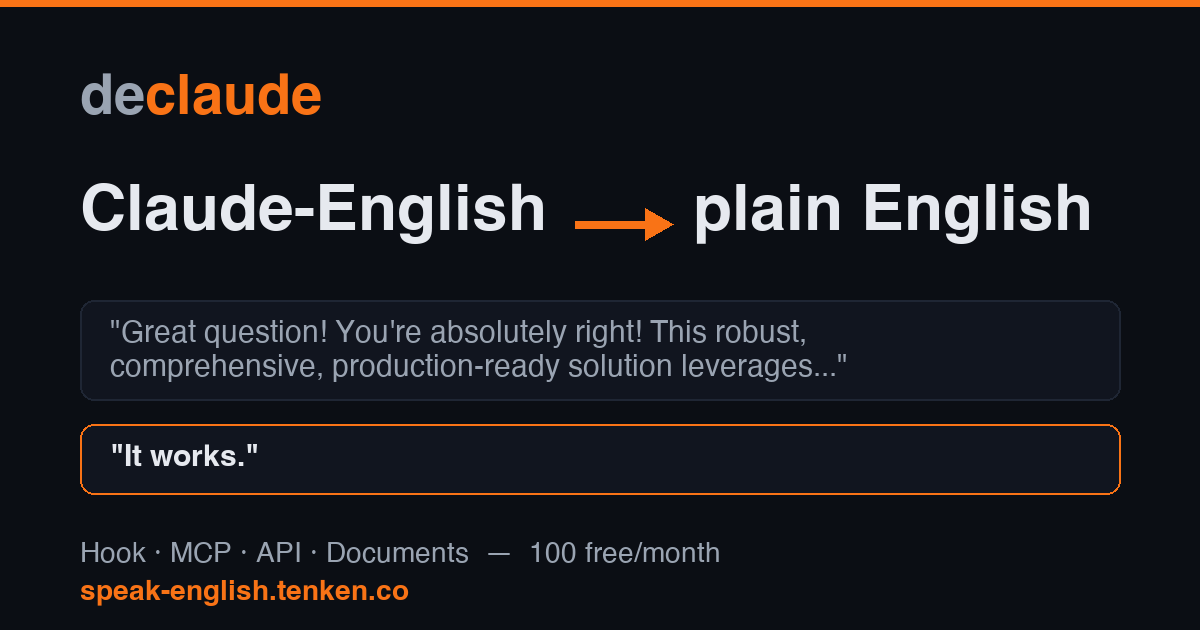
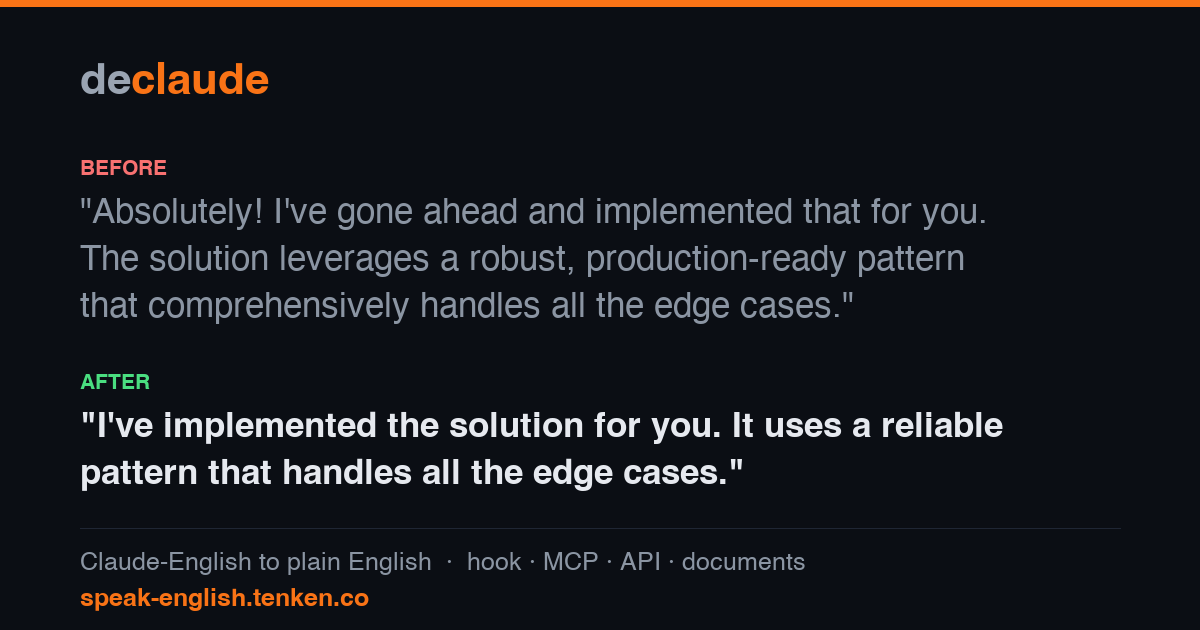
docs: declutter README behind the skill; own before/after examples on the card and demo

Changed region(s): [[0.0617, 0.2413, 0.925, 0.7841], [0.0617, 0.8444, 0.6783, 0.9651], [0.0617, 0.0905, 0.2775, 0.181]]

diff --git a/gateway/src/declaude/landing.py b/gateway/src/declaude/landing.py
@@ -105,9 +105,9 @@ footer a{color:var(--muted)}
 
   <div class="demo" id="try">
     <div class="before"><p class="label">Before</p>
-      <textarea id="demo-in" rows="3" maxlength="1200" placeholder="Certainly! I'd be delighted to delve into this fascinating topic - it's a testament to the rich tapestry of modern software engineering."></textarea></div>
+      <textarea id="demo-in" rows="3" maxlength="1200" placeholder="Great question! I&#x27;d be happy to help you think through this. It&#x27;s worth noting that there are a few different approaches here, each with their own tradeoffs. Let me walk you through them!"></textarea></div>
     <div class="after"><p class="label">After</p>
-      <p id="demo-out">Sure. Here's an overview of the topic.</p></div>
+      <p id="demo-out">There are a few different approaches here, each with their own tradeoffs. Let me walk you through them.</p></div>
     <div class="demo-bar">
       <button id="demo-go">Translate</button>
       <span id="demo-note" class="hint">No sign-in needed. Type, paste, or drop a file.</span>

diff --git a/README.md b/README.md
@@ -45,58 +45,68 @@ processed in memory and discarded, never written to disk, a database, or logs.
 
 ## Quick start
 
-**1. Get a key** — sign in at [/signin](https://speak-english.tenken.co/signin). Keys don't expire.
-
-**2. Pick your surface:**
-
 ```bash
-# REST
-curl -X POST https://speak-english.tenken.co/v1/translate \
-  -H "Authorization: Bearer $DECLAUDE_TOKEN" -H "Content-Type: application/json" \
-  -d '{"text": "Great question! It is worth noting that..."}'
-```
-
-```bash
-# MCP (Claude Code, Cursor, any MCP client) — sign-in happens in the browser via OAuth
 claude mcp add --transport http declaude https://speak-english.tenken.co/mcp
 ```
 
-```bash
-# claudish-to-english plugin (drop-in, no local Ollama needed)
-export CLAUDISH_OLLAMA="https://x:$DECLAUDE_TOKEN@speak-english.tenken.co"
-export CLAUDISH_MODEL="qwen2.5-14b-instruct"
-```
+No API key to paste: your client discovers OAuth, opens a browser sign-in, and holds the
+token. That is the whole setup.
 
-Also: [hook/](hook/) for a standalone Claude Code Stop-hook, and [skills/declaude/](skills/declaude/) to
-install declaude as an agent skill.
+| Surface | Use it for | Docs |
+|---|---|---|
+| **MCP server** | Claude Code, Cursor, any MCP client. Tools: `translate`, `usage` | [skill](skills/declaude/SKILL.md) |
+| **Claude Code hook** | Rewrites replies as they render, costs zero Claude tokens | [hook/](hook/) |
+| **Documents** | Drop a `.md`/`.txt`, get it back rewritten | [web](https://speak-english.tenken.co/documents) |
+| **REST API** | `POST /v1/translate`, `/v1/documents`, `/v1/usage` | [skill](skills/declaude/SKILL.md#rest-api) |
 
-## Pricing
-
-100 translations/month free. Past that, requests return `402` with a machine-readable
-payment challenge and an `upgrade_url` → [$5/month, unlimited](https://speak-english.tenken.co/upgrade).
-Only successful translations count against quota.
+Full usage, authentication and quota behaviour live in
+**[skills/declaude/SKILL.md](skills/declaude/SKILL.md)** — installable as an agent skill, so
+your agent can read it directly.
 
 ## Architecture
 
 ```
-client ── API key / Clerk JWT ──> Cloud Run gateway ── VPC ──> internal LB ──> vLLM GPU MIG
-                                     │                                        (Qwen2.5-14B, spot L4)
-                                     ├─> Firestore (usage, paid flags, key hashes)
-                                     └─> Stripe (payment link + signed webhooks)
+client ── API key / OAuth / Clerk JWT ──> Cloud Run gateway ── VPC ──> internal LB ──> vLLM GPU MIG
+                                              │                                    (Qwen2.5-14B, spot L4)
+                                              ├─> Firestore (usage, paid flags, key hashes)
+                                              └─> Stripe (payment link + signed webhooks)
 ```
 
-- **gateway/** — FastAPI: `/v1/translate`, `/mcp`, `/api/chat` (Ollama-compatible), `/v1/keys`,
-  `/v1/billing/webhook`, `/signin`, `/upgrade`, `/health`. 86 tests; every boundary injectable.
-- **infra/** — Terraform, state in GCS, plan converges to zero diff. GPU tier is private-IP spot
-  instances behind an internal L7 LB; template rollouts are deliberate (OPPORTUNISTIC).
-- **hook/** — Claude Code hook client (fails open; never blocks a session).
-- **CI/CD** — PRs: lint + tests (gateway/hook/infra). Main: test → build → deploy via Workload
-  Identity Federation → smoke test.
+- **gateway/** — FastAPI. Every boundary is injectable, which is why the suite runs without
+  network, GPU or cloud credentials.
+- **infra/** — Terraform, state in GCS, plan converges to zero diff. The GPU tier is
+  private-IP spot instances behind an internal L7 load balancer.
+- **hook/** — Claude Code hook client. Fails open; never blocks a session.
+- **CI** — lint, tests and coverage on every PR; security scans and a production smoke test
+  daily.
 
-## Operating notes
+<details>
+<summary><b>Operating notes</b></summary>
 
 - `/healthz` is reserved by Google Frontend on run.app — use `/health`.
 - Model swaps are one Terraform variable; 32B needs 2×L4 (quota bump), 14B fits one L4.
-- Secrets live in Secret Manager only. API keys are stored as SHA-256 digests.
-- Developed strictly test-first; every production defect found in dogfooding became a
-  regression test before its fix.
+- MIG template rollouts are deliberate (`OPPORTUNISTIC`): a proactive policy turned benign
+  template edits into surprise 15-minute outages.
+- Secrets live in Secret Manager only. API keys are stored as SHA-256 digests, so a database
+  leak yields no usable credential.
+- Prompt logging is disabled at the model server; request text is processed in memory and
+  discarded.
+- Developed test-first. Every production defect found while dogfooding became a regression
+  test before its fix.
+
+</details>
+
+## Development
+
+```bash
+cd gateway
+uv sync --dev
+uv run pytest -q          # 197 tests
+uv run ruff check .
+```
+
+## Credit
+
+Grew out of [gvzdv/claudish-to-english](https://github.com/gvzdv/claudish-to-english), the
+original local-Ollama hook. Licensed [MIT](LICENSE); upstream notice in
+[THIRD_PARTY_LICENSES.md](THIRD_PARTY_LICENSES.md).

diff --git a/skills/declaude/SKILL.md b/skills/declaude/SKILL.md
@@ -1,38 +1,92 @@
 ---
 name: declaude
-description: Rewrite "Claude English" (sycophantic AI-assistant prose - "Great question!", "It's worth noting", hedging filler) into plain, natural English via the hosted declaude API. Use when the user asks to de-Claude, simplify, or humanize AI-generated text, wants text translated to plain English, or wants AI writing tics removed from prose, READMEs, docs, or messages.
+description: Rewrite Claude-English (AI-assistant writing tics) into plain English. Use when text sounds sycophantic, padded or hedge-heavy, when de-Claudifying a document, or when checking declaude quota.
 ---
 
-# declaude — plain-English rewriting
+# declaude
 
-Hosted service: `https://speak-english.tenken.co` (open-source Qwen2.5-14B on dedicated GPUs; text never reaches a commercial AI provider).
+Rewrites assistant-voice into plain English. Sycophantic openers, hollow superlatives and
+hedging filler go; meaning, code blocks, headings and tables survive byte-for-byte.
 
-## Auth
+Runs on an open-source model (Qwen2.5-14B) on dedicated hardware, so text never reaches a
+commercial AI provider. Request text is processed in memory and discarded — never written to
+disk, a database, or logs.
 
-Requires an API key in `DECLAUDE_TOKEN` (or a key file at `~/.declaude_key`).
-Humans mint keys at https://speak-english.tenken.co/signin — shown once, never expires.
+**Base URL**: `https://speak-english.tenken.co`
 
-## Rewrite text
+## Setup
 
 ```bash
-TOKEN="${DECLAUDE_TOKEN:-$(cat ~/.declaude_key 2>/dev/null)}"
-curl -sS -X POST https://speak-english.tenken.co/v1/translate \
-  -H "Authorization: Bearer $TOKEN" -H "Content-Type: application/json" \
-  -d "$(jq -n --arg t "$TEXT" '{text:$t}')" | jq -r .translation
+claude mcp add --transport http declaude https://speak-english.tenken.co/mcp
 ```
 
-- Max input: 50,000 chars. Typical latency 1-3s.
-- Preserves facts, code blocks, names, numbers; strips only style.
+No key needed: the client discovers OAuth, opens a browser sign-in, and stores the token.
+Prefer a key? Mint one at [/signin](https://speak-english.tenken.co/signin) — keys never
+expire, and one key works across MCP, REST and the hook.
 
-## Response codes to handle
+## MCP tools
 
-- `402` — free tier (100/month) exhausted. Body has `upgrade_url`; tell the user to visit it. Do not retry.
-- `503` — model warming (spot instance re-heal, ~10-15 min). Honor `Retry-After`; fine to tell the user to retry later.
-- `401` — bad/missing key; point the user at /signin.
+| Tool | Arguments | Returns |
+|---|---|---|
+| `translate` | `text` (string) | The rewritten text |
+| `usage` | none | Plan, translations and documents used against their limits, upgrade link |
 
-## MCP alternative
+Check `usage` before a long batch: it costs nothing and reports exactly how much quota is
+left.
 
-For persistent use inside an MCP client: `claude mcp add --transport http declaude https://speak-english.tenken.co/mcp` — no header needed; the client discovers OAuth and opens a browser sign-in. Exposes a `translate` tool.
+## REST API
+
+```bash
+# Translate
+curl -X POST https://speak-english.tenken.co/v1/translate \
+  -H "Authorization: Bearer $DECLAUDE_TOKEN" -H "Content-Type: application/json" \
+  -d '{"text": "Great question! It is worth noting that..."}'
+# -> {"translation": "...", "model": "qwen2.5-14b-instruct"}
+
+# Translate a whole document (.md, .markdown, .txt, .rst)
+curl -X POST https://speak-english.tenken.co/v1/documents \
+  -H "Authorization: Bearer $DECLAUDE_TOKEN" \
+  -F "file=@notes.md" -o notes.declauded.md
+
+# Check quota
+curl https://speak-english.tenken.co/v1/usage -H "Authorization: Bearer $DECLAUDE_TOKEN"
+```
+
+Authentication accepts a `dk_` API key, an OAuth token, or a Clerk session JWT. URL userinfo
+works too, which is what the hook uses: `https://x:$DECLAUDE_TOKEN@speak-english.tenken.co`.
+
+## Claude Code hook
+
+```bash
+export CLAUDISH_OLLAMA="https://x:$DECLAUDE_TOKEN@speak-english.tenken.co"
+export CLAUDISH_MODEL="qwen2.5-14b-instruct"
+```
+
+The hook rewrites replies at display time on our GPU. Your transcript, context window and
+token bill are untouched, so it costs **zero Claude tokens**.
+
+## Quota and errors
+
+| Limit | Free | Paid ($5/mo) |
+|---|---|---|
+| Translations | 100 / month | Unlimited |
+| Documents | 5 / month, 200 KB each | 500 / month, 2 MB each |
+
+- Only successful calls count against quota; a failure never burns a translation.
+- `402` carries a machine-readable payment challenge with an `upgrade_url`.
+- `413` means the file exceeded the size limit for the plan; `415` means the type is
+  unsupported.
+- `503` means the GPU is warming (spot reclaim); retry shortly.
+- Free-tier responses carry `X-RateLimit-Remaining`; document responses carry
+  `X-Documents-Remaining`.
+
+## Behaviour worth knowing
+
+- **Language is preserved.** Japanese in, Japanese out. If the model answers in a different
+  script than the input, the original text is returned rather than a mistranslation.
+- **Structure is preserved.** Code fences, headings and tables pass through untouched; only
+  prose blocks are rewritten.
+- **Nothing is stored.** Only the account email, SHA-256 key digests, and usage counts.
 
 ## Credit
 
